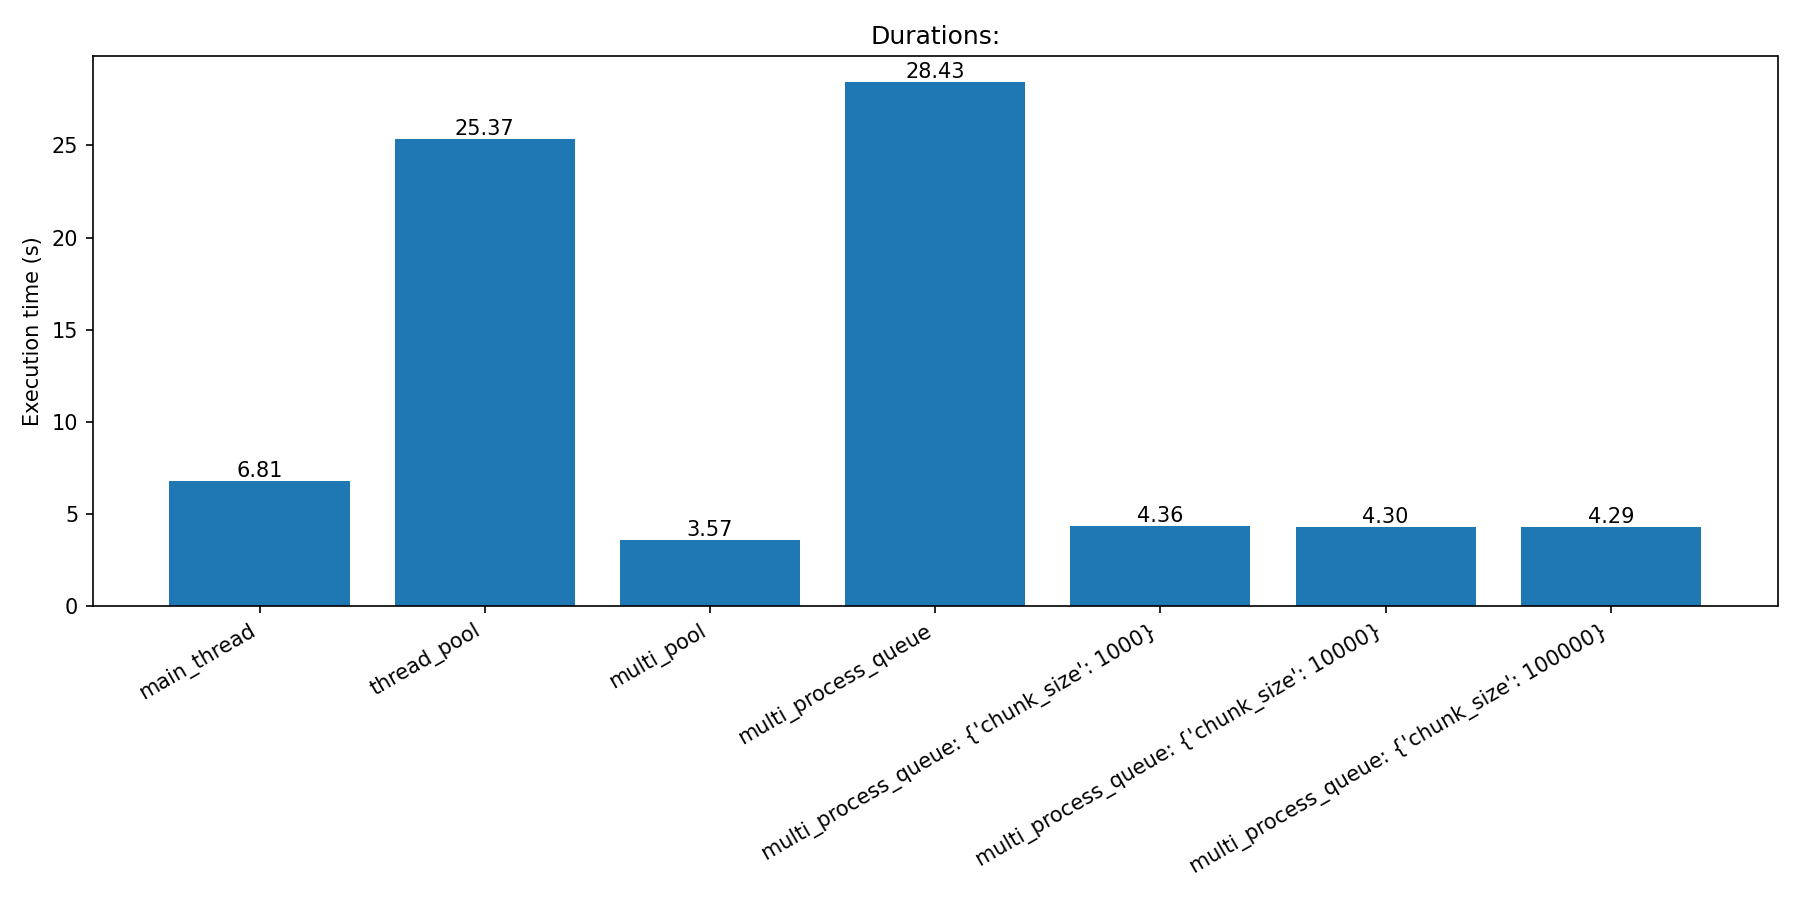
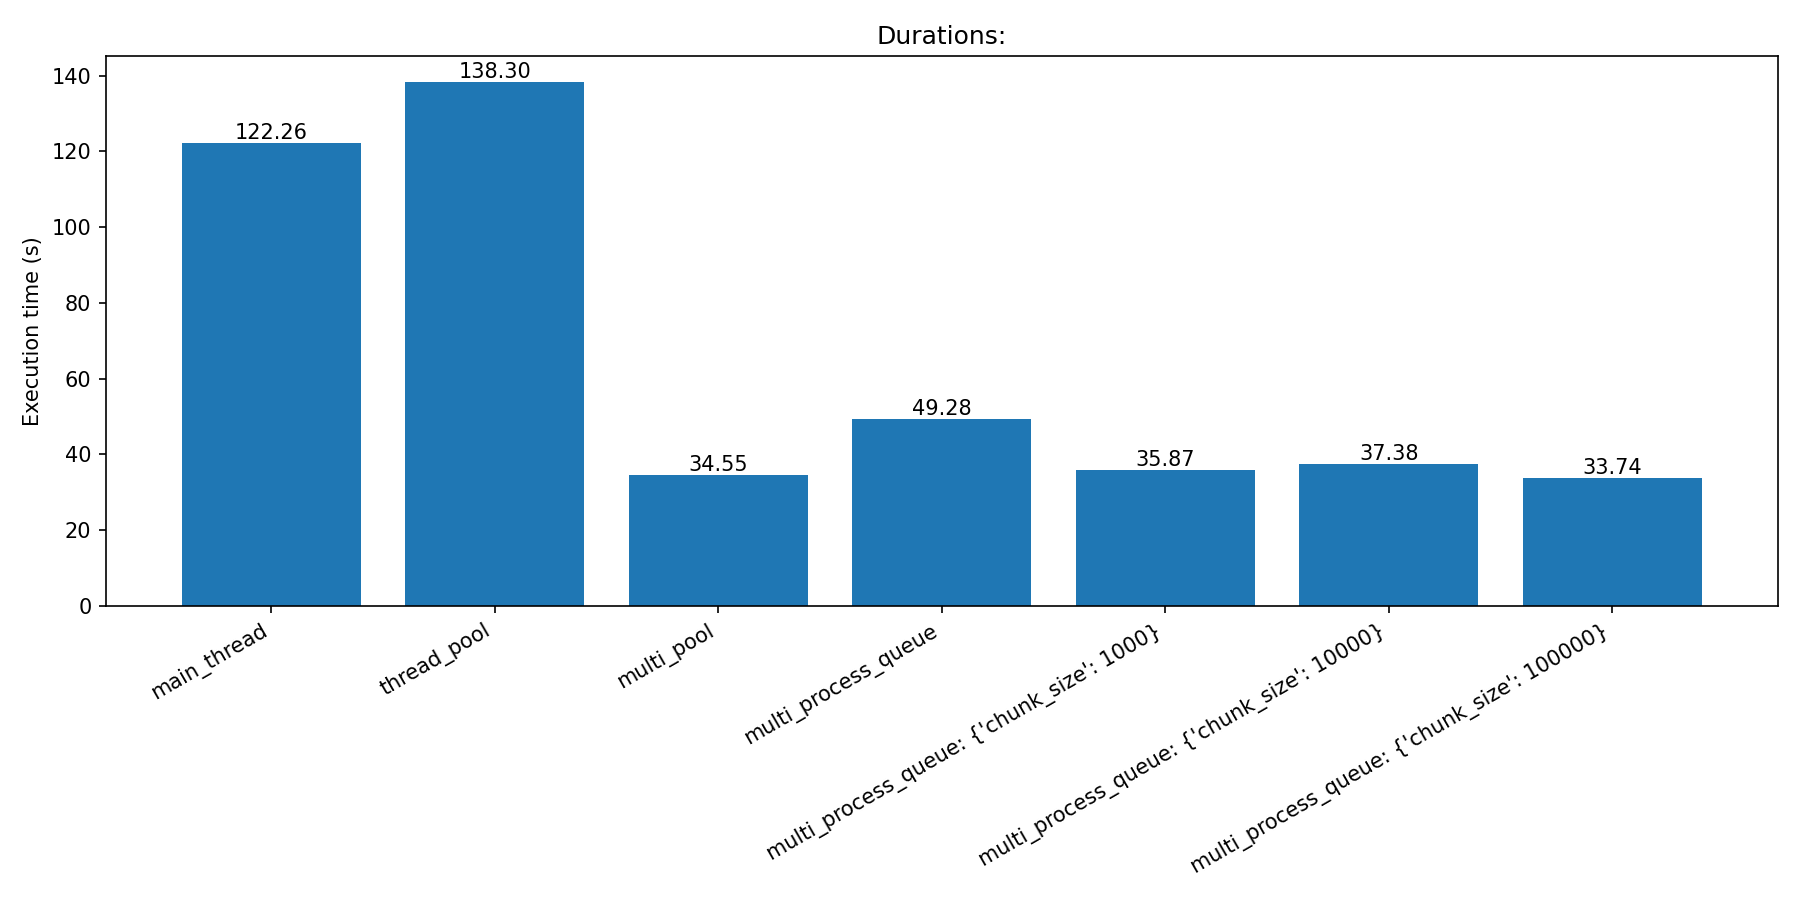
new threads test

diff --git a/1/threads_processes.py b/1/threads_processes.py
@@ -44,7 +44,7 @@ def generate_data(n: int) -> list[int]:
 
 
 def procces_number(number: int) -> None:
-    is_prime(number)
+    factorial(number)
 
 
 def factorial(number: int) -> int:
@@ -164,11 +164,18 @@ if __name__ == "__main__":
     numbers = generate_data(1000000)
 
     main_thread(numbers)
+    print("main_thread done")
     thread_pool(numbers)
+    print("thread_pool done")
     multi_pool(numbers)
+    print("multi_pool done")
     multi_process_queue(numbers)
+    print("multi_process_queue done")
     multi_process_queue(numbers, chunk_size=1000)
+    print("multi_process_queue chunk_size=1000 done")
     multi_process_queue(numbers, chunk_size=10000)
+    print("multi_process_queue chunk_size=10000 done")
     multi_process_queue(numbers, chunk_size=100000)
+    print("multi_process_queue chunk_size=100000 done")
 
     visualize(Timer.durations)
